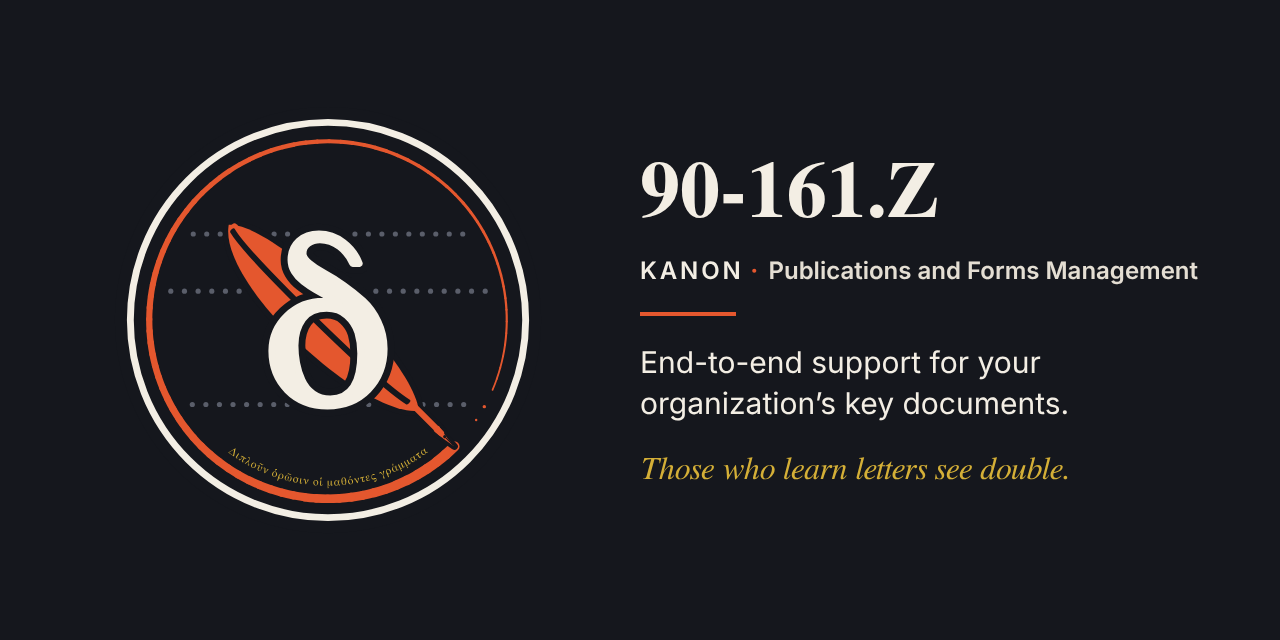
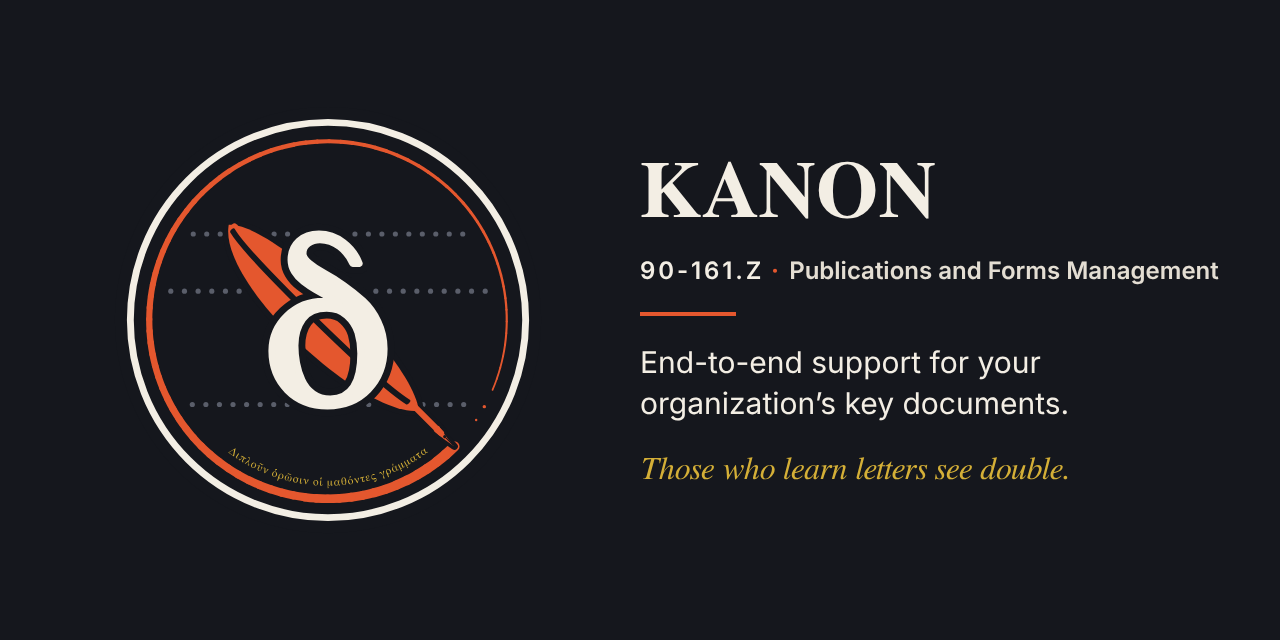
README social preview card: new format
New card format (approved by the Maintainer, 2026-11-26): name; publication
source and label, or a label alone; purpose; motto. Built by the kit script
scripts/social_preview.py from docs/brand/social-cards.json
(rhope-ops/archimedes_lever#229).

Claude-Session: https://claude.ai/code/session_01PyXpdSD9Vrbifvr1Bafxro

Changed region(s): [[0.5, 0.25, 0.75, 0.3438], [0.5, 0.4062, 0.9688, 0.4375]]

diff --git a/README.md b/README.md
@@ -1,4 +1,4 @@
-![90-161.Z: Kanon · Publications and Forms Management](docs/assets/90-161.Z-social-preview.png)
+![Kanon: 90-161.Z · Publications and Forms Management](docs/assets/90-161.Z-social-preview.png)
 
 # Kanon
 <p><b>Publications and Forms Management</b></p>
